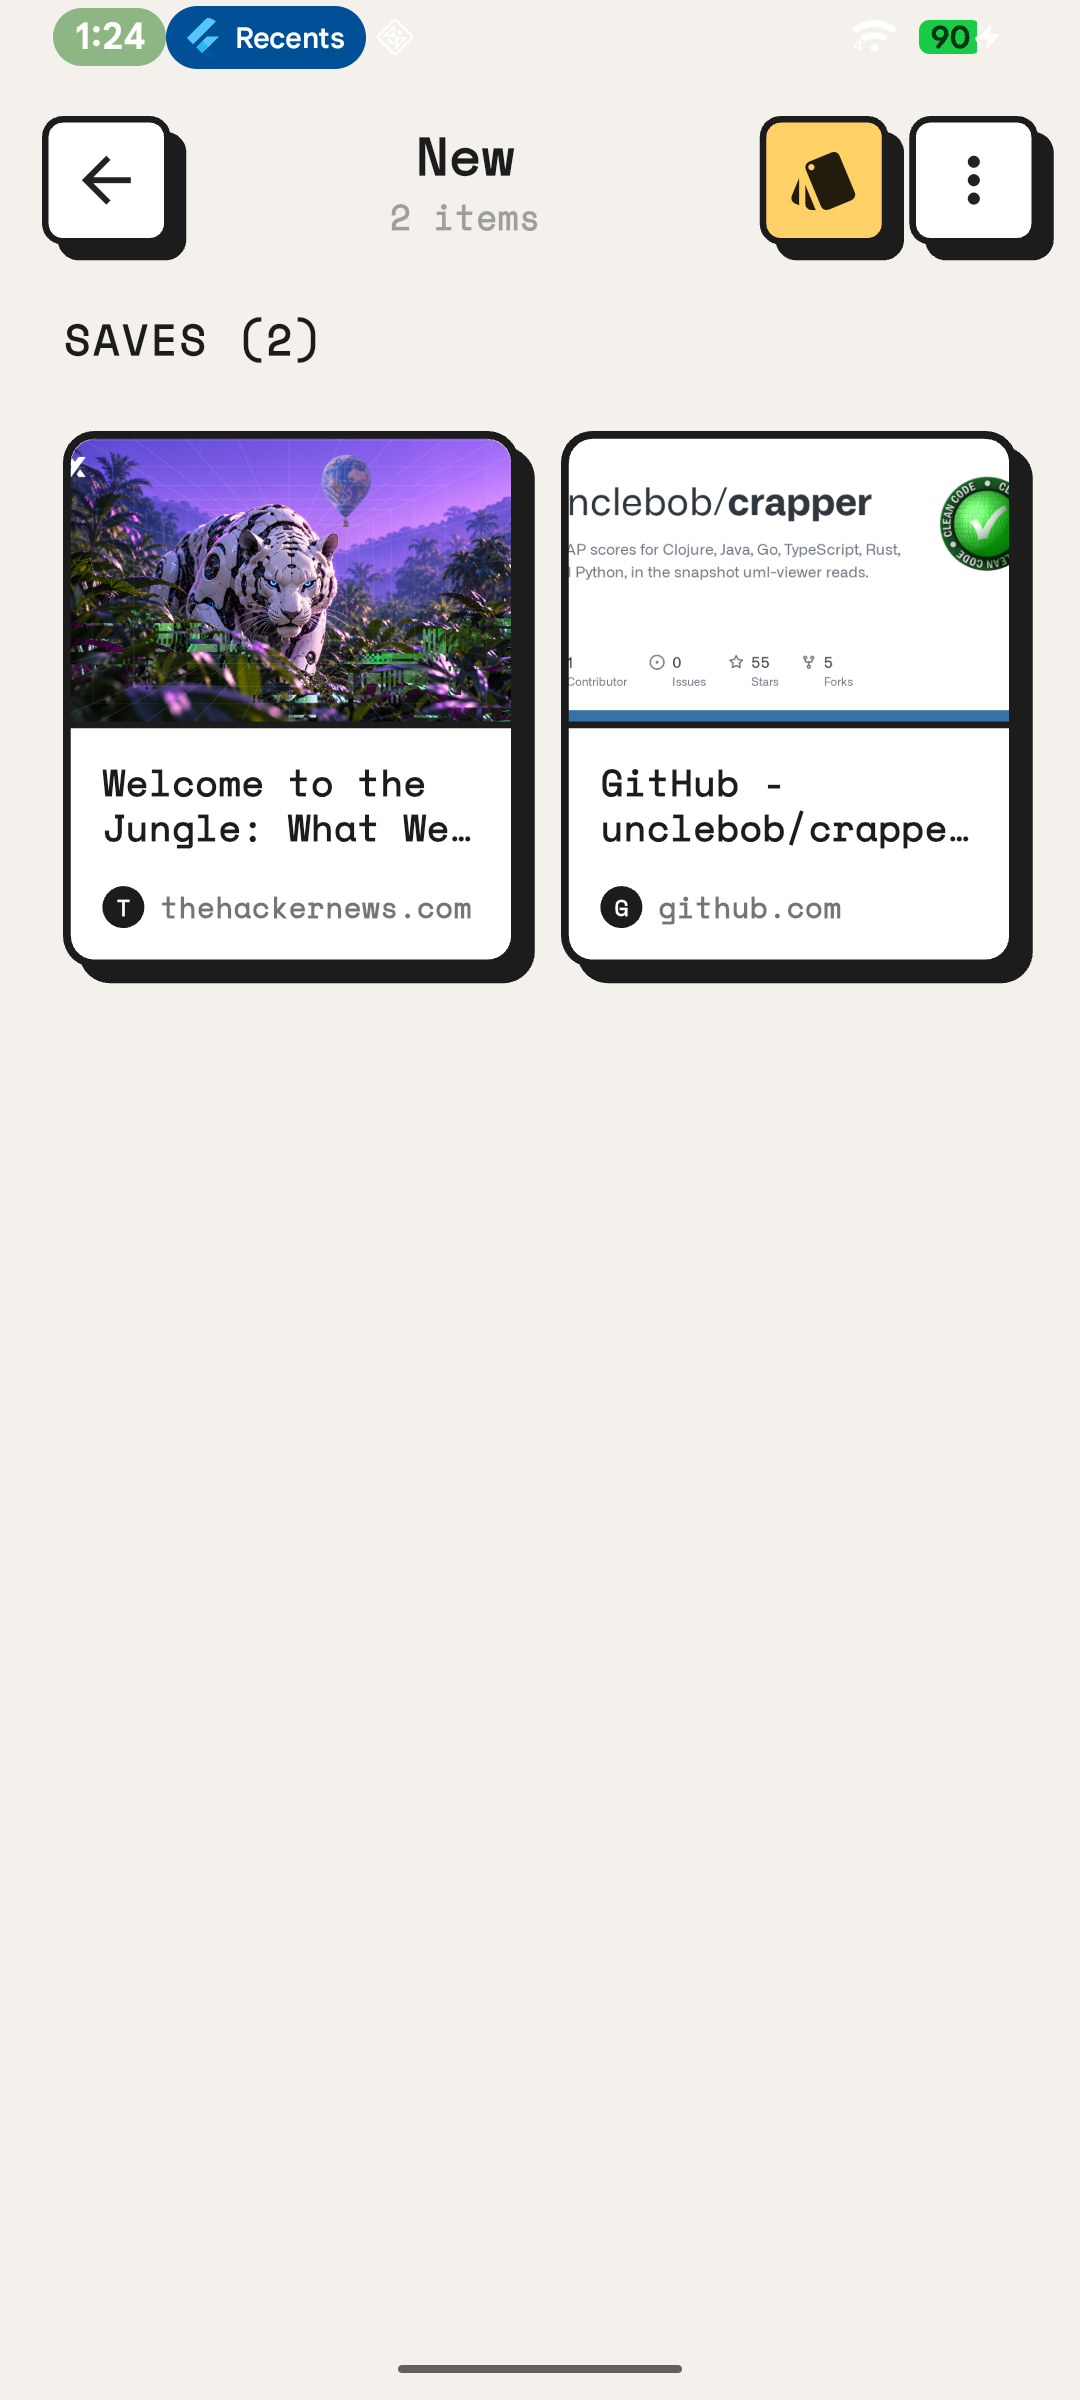
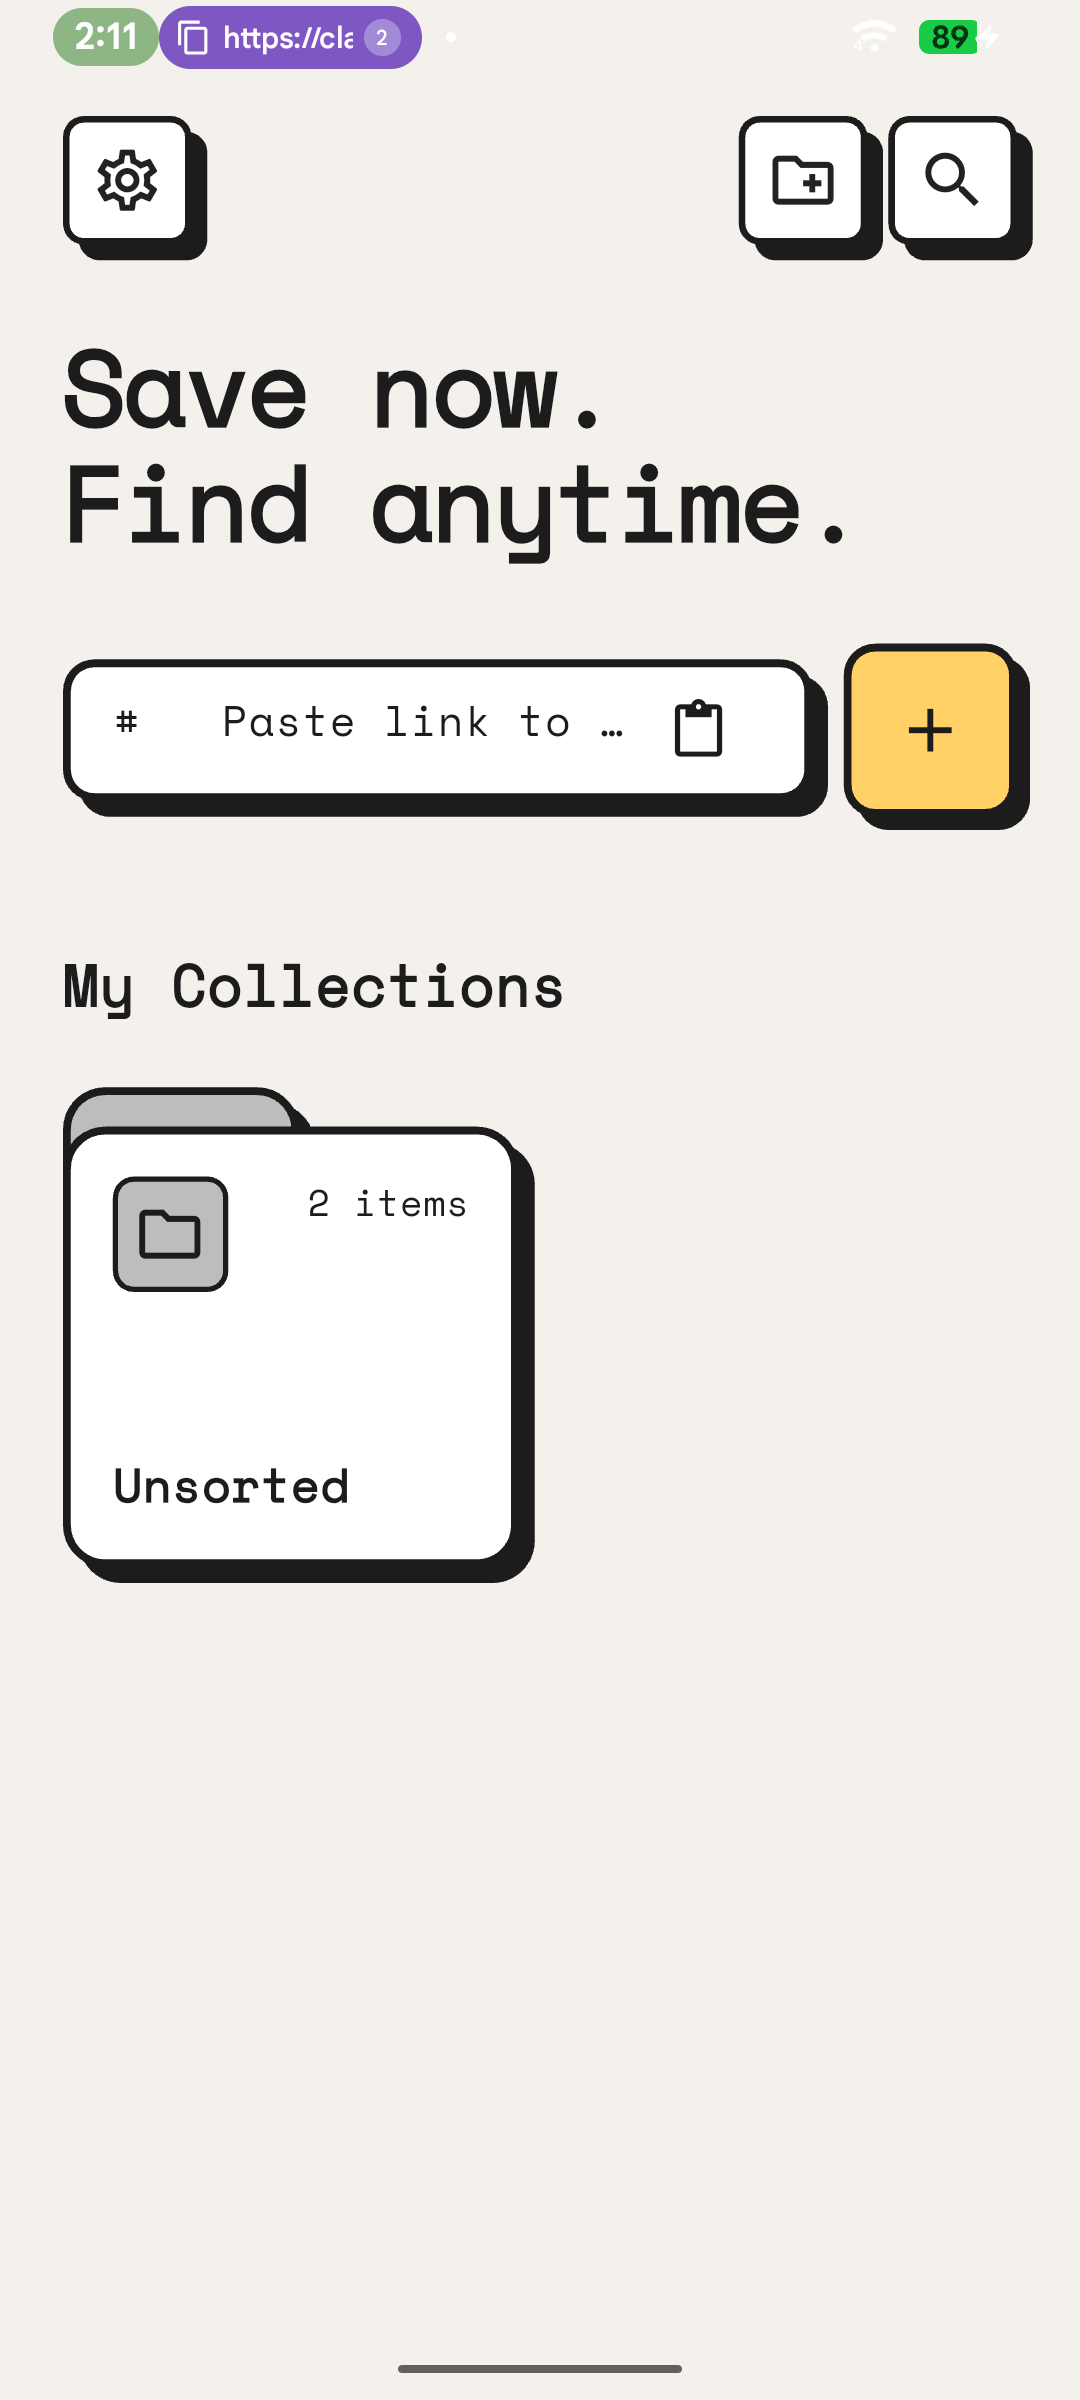
feat: update collections, models, and neo-brutalist UI components
- Update Bookmark and Collection models along with their generated files
- Refine neo-brutalist styling in NeoBox, NeoButton, and various screens
- Adjust app configuration, constants, and provider logic
- Add Python utility scripts for layout calculations (center, height, radial)
- Update screenshot and URL launcher logic

diff --git a/radial.py b/radial.py
@@ -1,0 +1,47 @@
+with open('lib/ui/widgets/bookmark_radial_menu.dart', 'r', encoding='utf-8') as f:
+    content = f.read()
+
+# Change radii
+content = content.replace('final double buttonRadius = 36.0;', 'final double buttonRadius = 34.0;')
+content = content.replace('final double arcRadius = 85.0;', 'final double arcRadius = 65.0;')
+
+# Add box shadow and adjust border
+box_decoration = '''                      decoration: BoxDecoration(
+                        color: isSelected ? const Color(0xFFFFD166) : Colors.white,
+                        shape: BoxShape.circle,
+                        border: Border.all(color: Colors.black, width: 4),
+                      ),'''
+
+new_box_decoration = '''                      decoration: BoxDecoration(
+                        color: isSelected ? const Color(0xFFFFD166) : Colors.white,
+                        shape: BoxShape.circle,
+                        border: Border.all(color: Colors.black, width: 3),
+                        boxShadow: const [
+                          BoxShadow(
+                            color: Colors.black,
+                            offset: Offset(3, 3),
+                            blurRadius: 0,
+                          ),
+                        ],
+                      ),'''
+
+content = content.replace(box_decoration, new_box_decoration)
+
+# Add weight to icon if possible (using strokeWidth in Icon maybe? No, Icon doesn't have strokeWidth. We can just leave icon as is, the shadow is the main UI difference)
+# Actually, the user image icons look like standard Material icons, but maybe they are a specific size. Let's keep size.
+content = content.replace(
+'''                      child: Icon(
+                        action.icon, 
+                        color: Colors.black, 
+                        size: AppDimensions.iconSizeXl,
+                      ),''',
+'''                      child: Icon(
+                        action.icon, 
+                        color: Colors.black, 
+                        size: 32.0,
+                        weight: 700,
+                      ),'''
+)
+
+with open('lib/ui/widgets/bookmark_radial_menu.dart', 'w', encoding='utf-8') as f:
+    f.write(content)

diff --git a/height.py b/height.py
@@ -1,0 +1,32 @@
+with open('lib/ui/screens/home_screen.dart', 'r', encoding='utf-8') as f:
+    content = f.read()
+
+# I want to wrap the Row's children in SizedBox(height: 56.0).
+# Let's replace the NeoBox( and NeoButton(
+content = content.replace(
+'''                  Expanded(
+                    child: NeoBox(
+                      padding: const EdgeInsets.symmetric(horizontal: AppDimensions.paddingLg, vertical: 4.0),
+                      borderRadius: AppDimensions.radiusMd,''',
+'''                  Expanded(
+                    child: SizedBox(
+                      height: 56.0,
+                      child: NeoBox(
+                        padding: const EdgeInsets.symmetric(horizontal: AppDimensions.paddingLg, vertical: 0.0),
+                        borderRadius: AppDimensions.radiusMd,'''
+)
+
+content = content.replace(
+'''                  NeoButton(
+                    padding: const EdgeInsets.symmetric(horizontal: 24.0, vertical: 14.0),
+                    borderRadius: AppDimensions.radiusMd,''',
+'''                  SizedBox(
+                    height: 56.0,
+                    width: 56.0,
+                    child: NeoButton(
+                      padding: EdgeInsets.zero,
+                      borderRadius: AppDimensions.radiusMd,'''
+)
+
+with open('lib/ui/screens/home_screen.dart', 'w', encoding='utf-8') as f:
+    f.write(content)

diff --git a/center.py b/center.py
@@ -1,0 +1,30 @@
+import re
+with open('lib/ui/screens/home_screen.dart', 'r', encoding='utf-8') as f:
+    content = f.read()
+
+# Wrap TextField in Center
+content = content.replace(
+'''                        child: TextField(
+                          controller: _urlController,''',
+'''                        child: Center(
+                          child: TextField(
+                            controller: _urlController,'''
+)
+
+# Need to close the Center widget properly
+content = content.replace(
+'''                          onSubmitted: (_) => _quickSave(),
+                        ),
+                      ),
+                    ),
+                  ),''',
+'''                            onSubmitted: (_) => _quickSave(),
+                          ),
+                        ),
+                      ),
+                    ),
+                  ),'''
+)
+
+with open('lib/ui/screens/home_screen.dart', 'w', encoding='utf-8') as f:
+    f.write(content)
